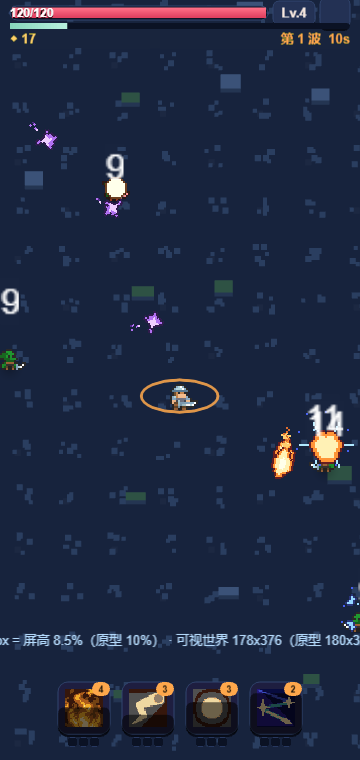
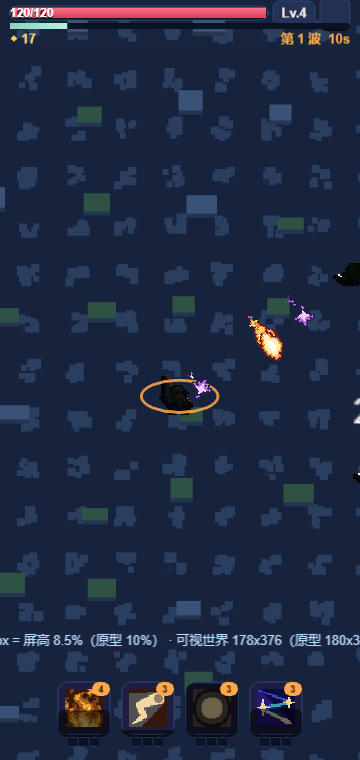
环境层次推到 20% + 单位黑描边（解决'淹没在地面里'）
按 D-33 计划继续优化：

1. 地面层次加深：碎石 4~7/格 -> 7~11/格、2~5px -> 3~7px；
   中大型物件 24% -> 40% 的 2x2 块、8~18px -> 10~24px
   -> 中调像素 3.7% -> 20.1%（5.4倍），接近参考 26.7~34.5%

2. 单位黑色描边（关键修复）
   地面加密后 VLM 两次提醒「角色和怪物颜色与地面接近，很难分辨」-> 裁图确认属实
   做法：单位节点重构为「容器 + 三层子节点」outline/shadow/body
   必须这样分层：Cocos 里「节点自身的 Sprite 先于子节点渲染」，
   描边做成子节点、精灵挂容器上 -> 描边会盖到精灵上面
   同时修：受击闪白要从 body 取 Sprite

   验证：VLM「右边轮廓更清晰，黑色描边让角色更突出」「更容易从地面区分出来」
   性能：60.2 FPS 无掉帧

diff --git a/cocos/assets/scripts/battle/Battle.ts b/cocos/assets/scripts/battle/Battle.ts
@@ -220,14 +220,14 @@ export class Battle extends Component {
     for (let yy = 0; yy < NY; yy++) {
       for (let xx = 0; xx < NX; xx++) {
         const lx = xx * CELL, ly = -(yy + 1) * CELL;
-        const n = 4 + Math.floor(hash(xx, yy) * 4);
+        const n = 7 + Math.floor(hash(xx, yy) * 5);
         for (let k = 0; k < n; k++) {
           const r1 = hash(xx * 31 + k, yy * 17 + k);
           const r2 = hash(xx * 13 + k * 7, yy * 23 + k * 3);
           const r3 = hash(xx + k * 101, yy + k * 57);
-          const px = lx + 1 + r1 * (CELL - 6);
-          const py = ly + 1 + r2 * (CELL - 6);
-          const s = 2 + Math.floor(r3 * 4);
+          const px = lx + 1 + r1 * (CELL - 8);
+          const py = ly + 1 + r2 * (CELL - 8);
+          const s = 3 + Math.floor(r3 * 5);
           g.fillColor = r3 < 0.14 ? CRACK : (r3 < 0.60 ? GRAVEL : (r3 < 0.86 ? GRAVEL2 : GRASS));
           g.rect(Math.round(px), Math.round(py), s, s);
         }
@@ -240,11 +240,11 @@ export class Battle extends Component {
     const BUSH = new Color(0x2E, 0x52, 0x44, 255);
     for (let yy = 0; yy < NY; yy += 2) {
       for (let xx = 0; xx < NX; xx += 2) {
-        if (hash(xx * 3 + 11, yy * 5 + 7) > 0.24) continue;   // 约 24% 的 2x2 块
+        if (hash(xx * 3 + 11, yy * 5 + 7) > 0.40) continue;   // 约 40% 的 2x2 块
         const lx = xx * CELL, ly = -(yy + 1) * CELL;
         const r1 = hash(xx * 19, yy * 29), r2 = hash(xx * 41 + 3, yy * 13 + 5), r3 = hash(xx + yy * 97, yy + 31);
-        const w = 8 + Math.floor(r1 * 11);
-        const h = 6 + Math.floor(r2 * 8);
+        const w = 10 + Math.floor(r1 * 14);
+        const h = 8 + Math.floor(r2 * 10);
         const px = lx + 2 + r1 * (CELL * 2 - w - 4);
         const py = ly + 2 + r2 * (CELL * 2 - h - 4) - CELL;
         // 先画暗底（阴影），再画亮面 —— 有立体感
@@ -293,22 +293,52 @@ export class Battle extends Component {
     const cy = this.cam ? this.cam.viewTop : 0;
     return { x: cx + sx / ZOOM, y: cy + sy / ZOOM };
   }
-  private mkSpriteNode(name: string, parent: Node, w = 32, h = 32, fallbackColor?: Color, withShadow = false): { node: Node; anim: FrameAnim } {
+  /**
+   * 建一个精灵节点。
+   *
+   * ⚠ 单位的结构是「容器 + 三层子节点」：
+   *      node（容器，Battle 定位/翻转它）
+   *        ├─ outline  黑色剪影（放大 1.14，垫在最下面）→ 单位才从地面细节里跳出来
+   *        ├─ shadow   脚下软阴影
+   *        └─ body     真正的动画精灵（FrameAnim 挂这里）
+   *    **必须这样分层**：Cocos 里"节点自身的 Sprite 会先于子节点渲染"，
+   *    如果把描边做成子节点、精灵挂在容器上，描边就盖到精灵上面去了。
+   */
+  private mkSpriteNode(name: string, parent: Node, w = 32, h = 32, fallbackColor?: Color, withShadow = false): { node: Node; anim: FrameAnim; body: Node } {
     const node = new Node(name);
     node.parent = parent;
-    const sp = node.addComponent(Sprite);
+    const ut = node.addComponent(UITransform);
+    ut.setContentSize(w, h);
+
+    let body = node;
+    let outline: Sprite | null = null;
+    if (withShadow) {
+      const ol = new Node('outline');
+      ol.parent = node;
+      const out = ol.addComponent(UITransform);
+      out.setContentSize(w * 1.14, h * 1.14);   // 放大才有描边效果
+      outline = ol.addComponent(Sprite);
+      outline.sizeMode = Sprite.SizeMode.CUSTOM;
+      outline.trim = false;
+      outline.color = new Color(6, 8, 16, 235);
+
+      body = new Node('body');
+      body.parent = node;
+      const but = body.addComponent(UITransform);
+      but.setContentSize(w, h);
+    }
+
+    const sp = body.addComponent(Sprite);
     sp.sizeMode = Sprite.SizeMode.CUSTOM;
     sp.trim = false;
-    // 兜底：素材还没加载出来时先显示纯色块 —— 绝不"静默变透明"
     if (fallbackColor) sp.spriteFrame = makeSolidFrame(fallbackColor.r, fallbackColor.g, fallbackColor.b);
-    // ⚠ 顺序很重要：contentSize 必须在 addComponent(Sprite) **之后**设。
-    //    Sprite 初始化时会按当时的 spriteFrame（当时可能为空）重置 contentSize，
-    //    先设会被覆盖成 0x0 —— 结果就是"精灵什么都看不见"（Graphics 和 Label 不受影响，所以症状很迷惑）。
-    const ut = node.getComponent(UITransform) ?? node.addComponent(UITransform);
-    ut.setContentSize(w, h);
-    const anim = node.addComponent(FrameAnim);
+    // contentSize 必须在 addComponent(Sprite) 之后设（Sprite 初始化会按空 spriteFrame 重置尺寸）
+    const but2 = body.getComponent(UITransform) ?? body.addComponent(UITransform);
+    but2.setContentSize(w, h);
+    const anim = body.addComponent(FrameAnim);
+    if (outline) (node as unknown as { _outline: Sprite })._outline = outline;
+
     if (withShadow) {
-      // 脚下软阴影：全场景共用一张运行时生成的椭圆贴图（零素材）
       const sh = new Node('shadow');
       sh.parent = node;
       const sut = sh.addComponent(UITransform);
@@ -318,10 +348,13 @@ export class Battle extends Component {
       ss.sizeMode = Sprite.SizeMode.CUSTOM;
       ss.trim = false;
       sh.setPosition(0, -h / 2 + 2, 0);
-      sh.setSiblingIndex(0);          // 垫在精灵下面
+      sh.setSiblingIndex(1);
+      body.setSiblingIndex(2);
+      body.getComponent(UITransform)!.setContentSize(w, h);
     }
-    return { node, anim };
+    return { node, anim, body };
   }
+
   private addVfx(key: string, x: number, y: number, life: number, scale = 1): Fx | null {
     const frames = Assets.vfxFrames(key);
     if (!frames || !frames.length) return null;
@@ -648,7 +681,8 @@ export class Battle extends Component {
       const s = e.node.scale;
       e.node.setScale(e.facing < 0 ? -Math.abs(s.x) : Math.abs(s.x), s.y, 1);
       // 受击闪白：直接改 Sprite.color（乘算），比换贴图便宜
-      const sp = e.node.getComponent(Sprite);
+      const bodyNode = e.node.getChildByName('body') ?? e.node;
+      const sp = bodyNode.getComponent(Sprite);
       if (sp) {
         if (e.flash > 0) sp.color = new Color(255, 150, 150, 255);
         else if (sp.color.r !== 255 || sp.color.g !== 255) sp.color = new Color(255, 255, 255, 255);

diff --git a/cocos/assets/scripts/engine/FrameAnim.ts b/cocos/assets/scripts/engine/FrameAnim.ts
@@ -70,7 +70,12 @@ export class FrameAnim extends Component {
 
   private apply() {
     const f = this.frames[this.frame];
-    if (f && this.sprite) this.sprite.spriteFrame = f;
+    if (f && this.sprite) {
+      this.sprite.spriteFrame = f;
+      // 黑色描边层（Battle 里给单位垫的剪影）要同步换帧，否则描边会停在第 1 帧
+      const ol = (this.node as unknown as { _outline?: Sprite })._outline;
+      if (ol) ol.spriteFrame = f;
+    }
   }
 
   update(dt: number) {
